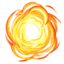
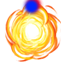
Added DPad motion for planet in DEBUG mode.

Changed region(s): [[0.3438, 0.0, 0.6875, 0.25]]

diff --git a/Honeymoon/Monkey.cs b/Honeymoon/Monkey.cs
@@ -65,6 +65,22 @@ namespace Honeymoon
             {
                 GamePadState gamePadState = GamePad.GetState(PlayerNumber);
 
+#if(DEBUG)
+                if (gamePadState.IsButtonDown(Buttons.LeftTrigger))
+                {
+                    if (gamePadState.IsButtonDown(Buttons.DPadLeft)) planet.Rotation -= 0.1f;
+                    else if (gamePadState.IsButtonDown(Buttons.DPadRight)) planet.Rotation += 0.1f;
+                }
+                else
+                {
+                    if (gamePadState.IsButtonDown(Buttons.DPadLeft)) planet.Position.X -= 10.0f;
+                    else if (gamePadState.IsButtonDown(Buttons.DPadRight)) planet.Position.X += 10.0f;
+                    if (gamePadState.IsButtonDown(Buttons.DPadUp)) planet.Position.Y -= 10.0f;
+                    else if (gamePadState.IsButtonDown(Buttons.DPadDown)) planet.Position.Y += 10.0f;
+                }
+#endif
+
+
                 if (gamePadState.IsButtonDown(Buttons.A) && PositionOnPlanet.Y < MaxHeightForJump) VelocityOnPlanet.Y = JumpStrength;
                 if (gamePadState.IsButtonDown(Buttons.RightTrigger) && (PositionOnPlanet.Y > MinHeightForCrashJump || VelocityOnPlanet.Y < 0)) DoingCrashJump = true;
                 if (!gamePadState.IsButtonDown(Buttons.LeftTrigger) && PositionOnPlanet.Y < MaxHeightForJump)
@@ -72,8 +88,8 @@ namespace Honeymoon
                     planet.RotationSpeed += gamePadState.ThumbSticks.Left.X * RunStrengthPlanet;
                     VelocityOnPlanet.X += gamePadState.ThumbSticks.Left.X * RunStrengthPlanet;
                 }
-                else VelocityOnPlanet.X += gamePadState.ThumbSticks.Left.X * RunStrength;
-
+                else
+                    VelocityOnPlanet.X += gamePadState.ThumbSticks.Left.X * RunStrength;
             }
 
             if (VelocityOnPlanet.LengthSquared() > 20.0f) HelpMovement.DisplayHelp = false;

diff --git a/Honeymoon/CoconutExplosion.cs b/Honeymoon/CoconutExplosion.cs
@@ -13,15 +13,17 @@ namespace Honeymoon
         public Texture2D Sprite;
         public Vector2 SpriteCenter;
         public float timer;
+        public float angle;
         public static float CoconutExplosionTime = 1.0f;
 
-        public CoconutExplosion(Vector2 pos)
+        public CoconutExplosion(Vector2 pos, float angle)
         {
             this.DrawOrder = 4;
             this.CollisionEnabled = true;
             this.CollisionRadius = 32;            
             this.Position = pos;
             this.timer = CoconutExplosionTime;
+            this.angle = angle;
         }
 
         protected override void LoadContent()
@@ -45,7 +47,7 @@ namespace Honeymoon
             float alpha = Math.Max(0.0f, timer / CoconutExplosionTime);
             Color color = new Color(1.0f, 1.0f, 1.0f, alpha);
             GameHM.spriteBatch.Begin();
-            GameHM.spriteBatch.Draw(Sprite, Position, null, color, 0.0f, SpriteCenter, 1.0f, SpriteEffects.None, 1);
+            GameHM.spriteBatch.Draw(Sprite, Position, null, color, angle, SpriteCenter, 1.0f, SpriteEffects.None, 1);
             GameHM.spriteBatch.End();
         }
     }

diff --git a/Honeymoon/CoconutMissile.cs b/Honeymoon/CoconutMissile.cs
@@ -77,17 +77,18 @@ namespace Honeymoon
         {
             if (otherObject is Planet)
             {
+                // Create explosion
+                float angle = (float)(Math.Atan2(Velocity.Y, Velocity.X) - Math.PI/2);
+                CoconutExplosion explosion = new CoconutExplosion(Position, angle);
+                GameHM.Components.Add(explosion);
+
                 // Bounce from planet surface
                 Vector2 dir = -1.0f * offsetMeToOther;
                 dir.Normalize();
                 Velocity = CoconutMissileBounceVelocity * dir;
                 this.fadeOutDuration = CoconutMissileFadeoutDuration;
                 this.fadingOut = true;
-                CollisionEnabled = false; // remove from game's collidable object list
-
-                // Create explosion
-                CoconutExplosion explosion = new CoconutExplosion(Position);
-                GameHM.Components.Add(explosion);
+                CollisionEnabled = false; // remove from game's collidable object list                
             }
         }
     }

diff --git a/Honeymoon/Planet.cs b/Honeymoon/Planet.cs
@@ -2,8 +2,8 @@
 using System.Collections.Generic;
 using System.Linq;
 using System.Text;
-using Microsoft.Xna.Framework.Graphics;
 using Microsoft.Xna.Framework;
+using Microsoft.Xna.Framework.Graphics;
 
 namespace Honeymoon
 {
@@ -43,7 +43,7 @@ namespace Honeymoon
             Rotation += RotationSpeed * seconds;
             Velocity *= (float)Math.Pow(1.0f - Friction, seconds);
             RotationSpeed *= (float)Math.Pow(1.0f - RotationFriction, seconds);
-
+      
             Vector2 windowSize = new Vector2(Game.GraphicsDevice.Viewport.Width, Game.GraphicsDevice.Viewport.Height);
             ScreenWall wall = new ScreenWall();
             if (Position.X < CollisionRadius && Velocity.X < 0) OnCollide(wall, -Vector2.UnitX);
